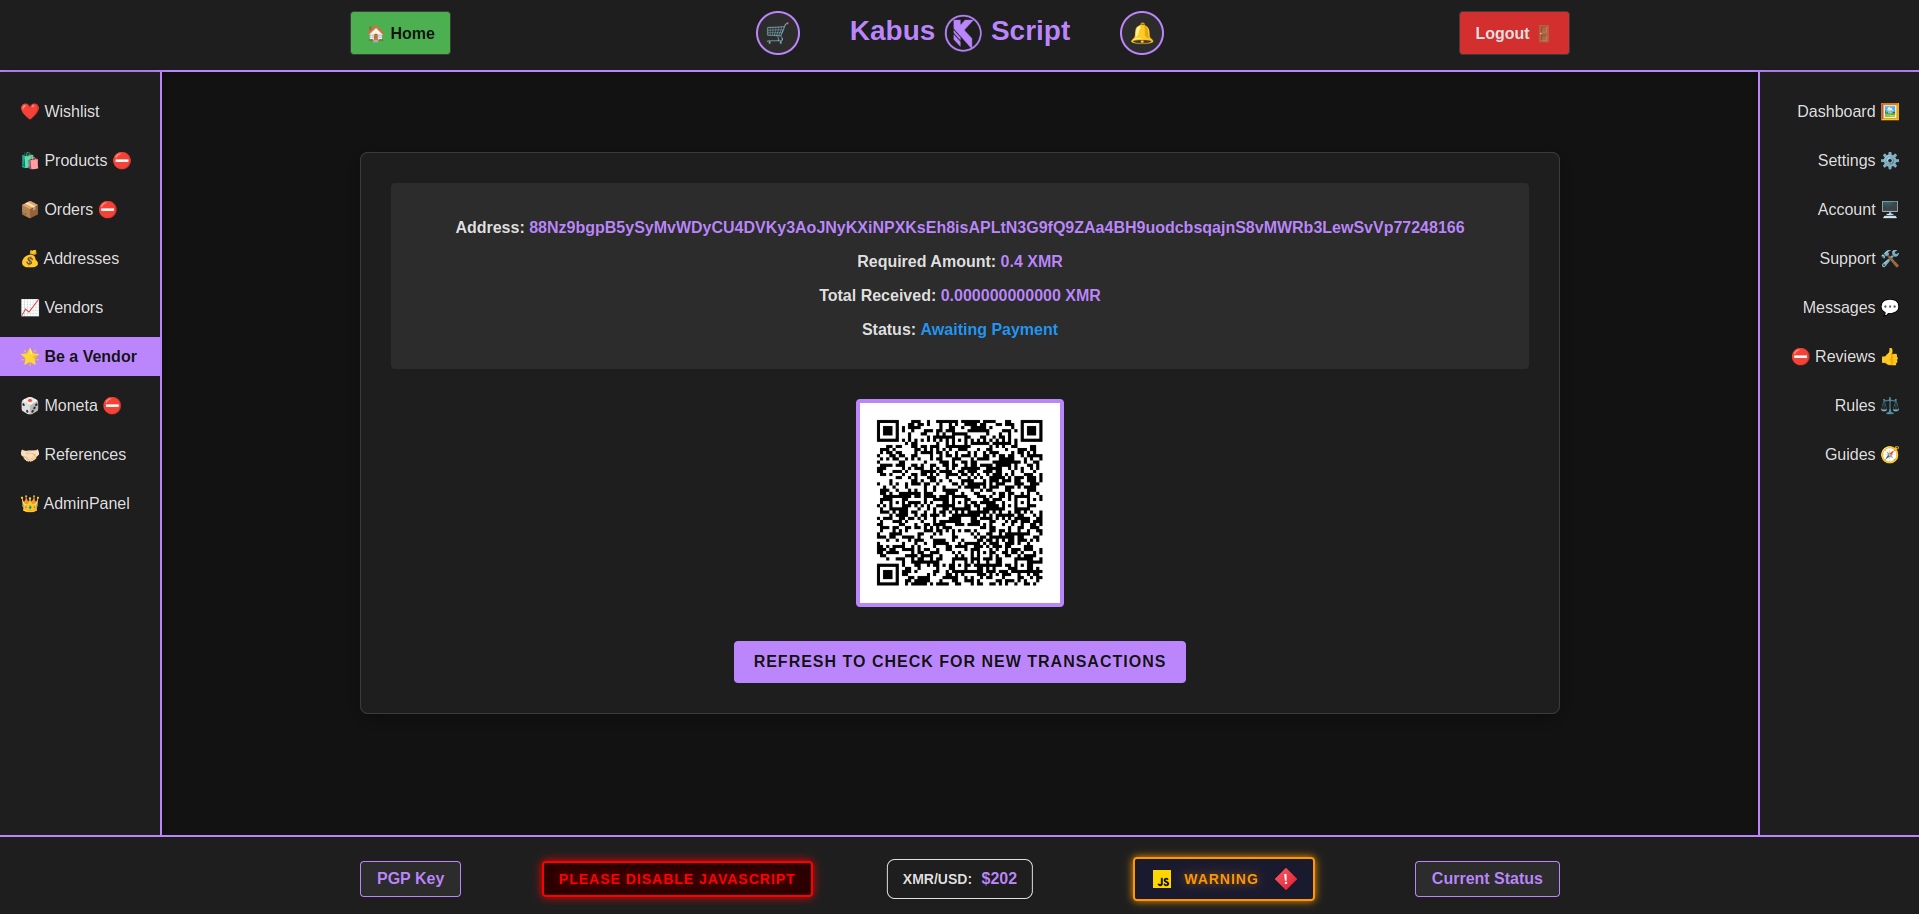
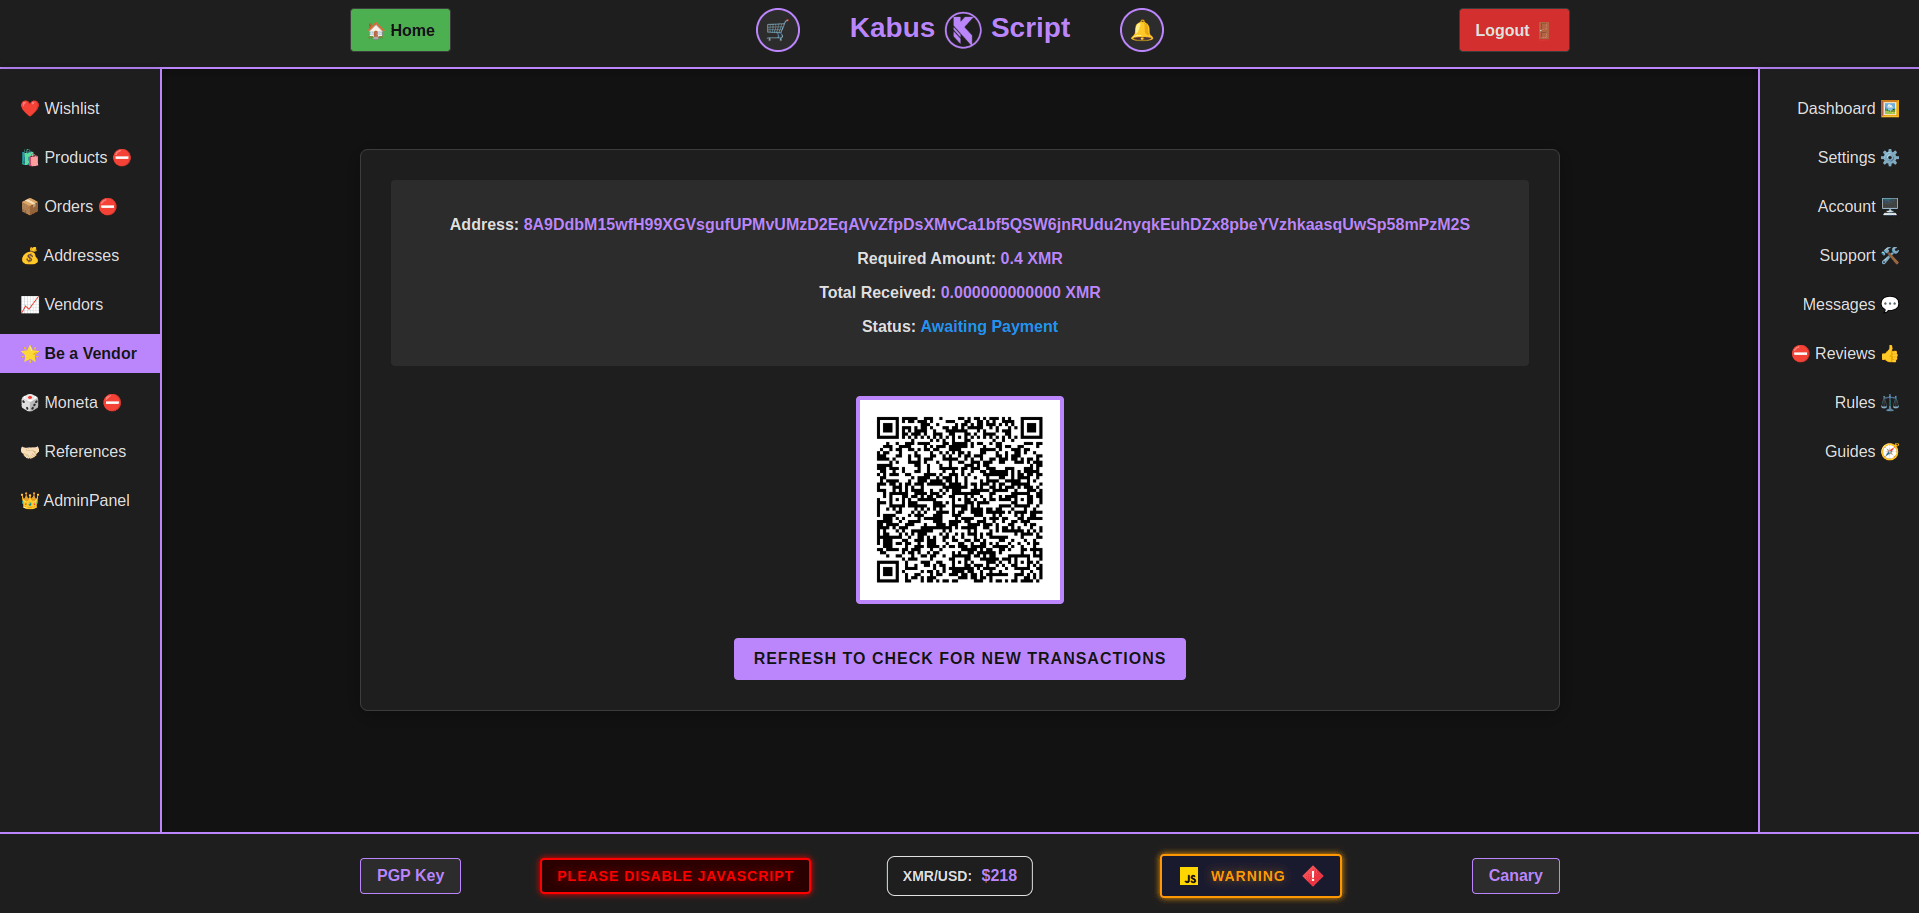
Rename Current Status to Canary

diff --git a/public/css/styles.css b/public/css/styles.css
@@ -1446,46 +1446,46 @@ textarea.settings-index-page-form-control {
     transform: translateY(-2px);
 }
 
-.update-status-container {
+.canary-index-container {
     max-width: 800px;
     margin: 40px auto;
     padding: 0 20px;
 }
-.update-status-card {
+.canary-index-card {
     background-color: #1e1e1e;
     border-radius: 8px;
     padding: 30px;
     box-shadow: 0 4px 20px rgba(0, 0, 0, 0.3);
     border: 1px solid #3c3c3c;
 }
-.update-status-title {
+.canary-index-title {
     color: #bb86fc;
     font-size: 28px;
     margin-bottom: 20px;
     text-align: center;
 }
-.update-status-alert {
+.canary-index-alert {
     padding: 15px;
     border-radius: 4px;
     margin-bottom: 20px;
 }
-.update-status-alert-success {
+.canary-index-alert-success {
     background-color: #1b5e20;
     color: #e8f5e9;
 }
-.update-status-form {
+.canary-index-form {
     margin-top: 20px;
 }
-.update-status-form-group {
+.canary-index-form-group {
     margin-bottom: 20px;
 }
-.update-status-label {
+.canary-index-label {
     display: block;
     margin-bottom: 8px;
     color: #e0e0e0;
     font-weight: 700;
 }
-.update-status-textarea {
+.canary-index-textarea {
     width: 100%;
     padding: 12px 15px;
     background-color: #2c2c2c;
@@ -1496,17 +1496,17 @@ textarea.settings-index-page-form-control {
     resize: vertical;
     min-height: 350px;
 }
-.update-status-textarea:focus {
+.canary-index-textarea:focus {
     outline: 0;
     border-color: #bb86fc;
 }
-.update-status-invalid-feedback {
+.canary-index-invalid-feedback {
     color: #ff3838;
     font-size: 14px;
     margin-top: 5px;
     display: block;
 }
-.update-status-btn {
+.canary-index-btn {
     display: inline-block;
     padding: 12px 20px;
     background-color: #bb86fc;
@@ -1522,7 +1522,7 @@ textarea.settings-index-page-form-control {
     transition: all 0.3s ease;
     cursor: pointer;
 }
-.update-status-btn:hover {
+.canary-index-btn:hover {
     background-color: #9966cc;
     transform: translateY(-2px);
 }
@@ -4811,7 +4811,7 @@ textarea.settings-index-page-form-control {
     padding: 8px 15px;
     animation: warning-glow-red 1.5s infinite;
     margin-left: auto;
-    margin-right: 240px;
+    margin-right: 270px;
 }
 .javascript-warning-right {
     display: none;
@@ -4822,7 +4822,7 @@ textarea.settings-index-page-form-control {
     padding: 8px 15px;
     animation: warning-glow-orange 1.5s infinite;
     margin-left: auto;
-    margin-right: 100px;
+    margin-right: 130px;
     gap: 10px;
 }
 .javascript-warning-icon {

diff --git a/routes/web.php b/routes/web.php
@@ -48,9 +48,9 @@ Route::middleware(VerifyRhombusCaptcha::class)->group(function () {
         return response()->file(storage_path('app/public/pgp_key.txt'));
     })->name('pgp-key');
 
-    Route::get('/kabus-current-status', function () {
-        return response()->file(storage_path('app/public/kabus_current_status.txt'));
-    })->name('kabus-current-status');
+    Route::get('/canary', function () {
+        return response()->file(storage_path('app/public/canary.txt'));
+    })->name('canary');
 
     Route::middleware('guest')->group(function () {
         Route::get('/register', [AuthController::class, 'showRegisterForm'])->name('register');
@@ -162,8 +162,8 @@ Route::middleware(VerifyRhombusCaptcha::class)->group(function () {
         // Admin routes
         Route::middleware(AdminMiddleware::class)->group(function () {
             Route::get('/admin', [AdminController::class, 'index'])->name('admin.index');
-            Route::get('/admin/update-status', [AdminController::class, 'showUpdateStatus'])->name('admin.update-status');
-            Route::post('/admin/update-status', [AdminController::class, 'updateStatus'])->name('admin.update-status.post');
+            Route::get('/admin/canary', [AdminController::class, 'showUpdateCanary'])->name('admin.canary');
+            Route::post('/admin/canary', [AdminController::class, 'updateCanary'])->name('admin.canary.post');
             
             // Admin logs management
             Route::get('/admin/logs', [AdminController::class, 'showLogs'])->name('admin.logs');

diff --git a/resources/views/admin/canary.blade.php b/resources/views/admin/canary.blade.php
@@ -1,0 +1,37 @@
+@extends('layouts.app')
+
+@section('content')
+<div class="canary-index-container">
+    <div class="canary-index-card">
+        <h2 class="canary-index-title">{{ config('app.name') }} Canary</h2>
+
+        @if (session('success'))
+            <div class="canary-index-alert canary-index-alert-success" role="alert">
+                {{ session('success') }}
+            </div>
+        @endif
+
+        <form method="POST" action="{{ route('admin.canary.post') }}" class="canary-index-form">
+            @csrf
+
+            <div class="canary-index-form-group text-center">
+                <label for="canary" class="canary-index-label">Current Canary</label>
+                <textarea id="canary" class="canary-index-textarea @error('canary') is-invalid @enderror" name="canary" required rows="5">{{ old('canary', $currentCanary) }}</textarea>
+
+                @error('canary')
+                    <span class="canary-index-invalid-feedback" role="alert">
+                        <strong>{{ $message }}</strong>
+                    </span>
+                @enderror
+            </div>
+
+            <div class="canary-index-form-group text-center">
+                <button type="submit" class="canary-index-btn">
+                    Update Canary
+                </button>
+            </div>
+        </form>
+    </div>
+</div>
+
+@endsection

diff --git a/app/Http/Controllers/AdminController.php b/app/Http/Controllers/AdminController.php
@@ -23,21 +23,21 @@ class AdminController extends Controller
         return view('admin.index');
     }
 
-    public function showUpdateStatus()
+    public function showUpdateCanary()
     {
-        $currentStatus = Storage::get('public/kabus_current_status.txt');
-        return view('admin.update-status', compact('currentStatus'));
+        $currentCanary = Storage::get('public/canary.txt');
+        return view('admin.canary', compact('currentCanary'));
     }
 
-    public function updateStatus(Request $request)
+    public function updateCanary(Request $request)
     {
         $request->validate([
-            'status' => 'required|string|max:3200',
+            'canary' => 'required|string|max:3200',
         ]);
 
-        Storage::put('public/kabus_current_status.txt', $request->status);
+        Storage::put('public/canary.txt', $request->canary);
 
-        return redirect()->route('admin.update-status')->with('success', 'Status updated successfully.');
+        return redirect()->route('admin.canary')->with('success', 'Canary updated successfully.');
     }
 
     public function showLogs()

diff --git a/resources/views/admin/index.blade.php b/resources/views/admin/index.blade.php
@@ -67,9 +67,9 @@
             <div class="admin-panel-item">
                 <div class="admin-panel-item-icon">
                 </div>
-                <h3 class="admin-panel-item-title">📅 Current Status 📅</h3>
-                <p class="admin-panel-item-description">Update the current status of {{ config('app.name') }}.</p>
-                <a href="{{ route('admin.update-status') }}" class="admin-panel-item-link">Update Current Status</a>
+                <h3 class="admin-panel-item-title">📅 Canary 📅</h3>
+                <p class="admin-panel-item-description">Update the current canary of {{ config('app.name') }} with a signed message.</p>
+                <a href="{{ route('admin.canary') }}" class="admin-panel-item-link">Update Canary</a>
             </div>
         </div>
     </div>

diff --git a/resources/views/layouts/app.blade.php b/resources/views/layouts/app.blade.php
@@ -50,7 +50,7 @@
                         <img src="{{ asset('images/javascript-warning.gif') }}" alt="JavaScript Warning" class="javascript-warning-gif">
                     </div>
                 @endif
-                <a href="{{ route('kabus-current-status') }}" class="footer-button">Current Status</a>
+                <a href="{{ route('canary') }}" class="footer-button">Canary</a>
             </div>
         </div>
     </footer>

diff --git a/README.md b/README.md
@@ -40,6 +40,14 @@ Built with PHP 8.3 and Laravel 11.
 - **Educational Resources**: Comprehensive guides on Monero usage, KeePassXC for new users
 - **Support System**: Integrated help desk functionality
 
+### Other Screenshots
+
+![Products Page](docs/3.png)
+![AdminPanel's User Page](docs/4.png)
+![Account Page](docs/5.png)
+![Support Page](docs/6.png)
+
+
 # [View the Roadmap](docs/ROADMAP.md)
 # [Monero Wallet RPC Guide](docs/CONNECTING-MONERO-RPC.md)
 
